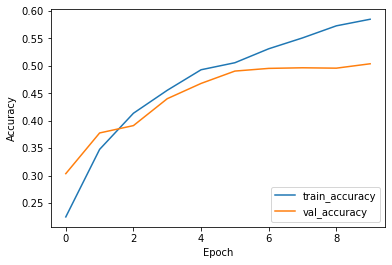
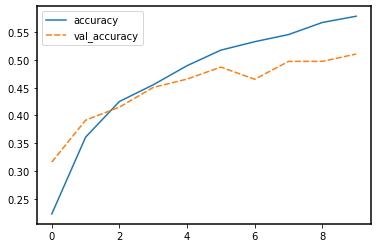
Use seaborn, and also plot loss

Changed region(s): [[0.0, 0.0, 0.9894, 0.9879]]

diff --git a/_episodes/04-networks-are-like-onions.md b/_episodes/04-networks-are-like-onions.md
@@ -292,7 +292,7 @@ We compile the model and train it on our training data for 10 epochs
 
 ~~~
 model.compile(optimizer='adam',
-              loss=tf.keras.losses.SparseCategoricalCrossentropy(from_logits=True),
+              loss=keras.losses.SparseCategoricalCrossentropy(from_logits=True),
               metrics=['accuracy'])
 
 history = model.fit(train_images, train_labels, epochs=10,
@@ -304,16 +304,18 @@ history = model.fit(train_images, train_labels, epochs=10,
 We can plot the training process using the history:
 
 ~~~
-plt.plot(history.history['accuracy'], label='train_accuracy')
-plt.plot(history.history['val_accuracy'], label = 'val_accuracy')
-plt.xlabel('Epoch')
-plt.ylabel('Accuracy')
-plt.legend(loc='lower right')
+history_df = pd.DataFrame.from_dict(history.history)
+sns.lineplot(data=history_df[['accuracy', 'val_accuracy']])
 ~~~
 {: .language-python}
 ![Output of plotting sample](../fig/04_training_history_1.png)
+~~~
+sns.lineplot(data=history_df[['loss', 'val_loss']])
+~~~
+{: .language-python}
+![Output of plotting sample](../fig/04_training_history_loss_1.png)
 
-It seems that the model is overfitting somewhat, because the validation accuracy stagnates.
+It seems that the model is overfitting somewhat, because the validation accuracy and loss stagnates.
 
 > ## Network depth
 >
@@ -392,20 +394,23 @@ It seems that the model is overfitting somewhat, because the validation accuracy
 > > To train the network and plot the results:
 > > ~~~
 > > model.compile(optimizer='adam',
-> >               loss=tf.keras.losses.SparseCategoricalCrossentropy(from_logits=True),
+> >               loss=keras.losses.SparseCategoricalCrossentropy(from_logits=True),
 > >               metrics=['accuracy'])
 > >
 > > history = model.fit(train_images, train_labels, epochs=20,
 > >                     validation_data=(test_images, test_labels))
 > >
-> > plt.plot(history.history['accuracy'], label='train_accuracy')
-> > plt.xlabel('Epoch')
-> > plt.ylabel('Accuracy')
-> > plt.legend(loc='lower right')
+> > history_df = pd.DataFrame.from_dict(history.history)
+> > sns.lineplot(data=history_df[['accuracy', 'val_accuracy']])
 > >
 > > ~~~
 > > {: .language-python}
 > > ![Output of training](../fig/04_training_history_2.png)
+> > ~~~
+> > sns.lineplot(data=history_df[['loss', 'val_loss']])
+> > ~~~
+> > {: .language-python}
+> > ![Output of plotting sample](../fig/04_training_history_loss_2.png)
 > {: .solution}
 {: .challenge}
 
@@ -421,9 +426,9 @@ It seems that the model is overfitting somewhat, because the validation accuracy
 
 ## Dropout
 
-Note that the training accuracy continues to increase, while the validation accuracy stagnates over the course of the epochs. This means we are overfitting on our training data set.
+Note that the training loss continues to decrease, while the validation loss stagnates, and even starts to increase over the course of the epochs. Similarily, the accuracy for the validation set does not improve anymore after some epochs. This means we are overfitting on our training data set.
 
-There are several ways of preventing overfitting, called regularization methods.
+There are several ways of preventing overfitting, called *regularization methods*.
 One common and simple but remarkebly effective method is Dropout ([Srivastava et al., 2014](https://jmlr.org/papers/v15/srivastava14a.html)).
 
 In the Dropout layer, a random portion of the nodes in the previous layer is ignored during training time.
@@ -485,7 +490,7 @@ We can see that the dropout does note alter the dimensions of the image, and has
 We again compile and train the model.
 ~~~
 model_dropout.compile(optimizer='adam',
-              loss=tf.keras.losses.SparseCategoricalCrossentropy(from_logits=True),
+              loss=keras.losses.SparseCategoricalCrossentropy(from_logits=True),
               metrics=['accuracy'])
 
 history_dropout = model_dropout.fit(train_images, train_labels, epochs=20,
@@ -495,12 +500,10 @@ history_dropout = model_dropout.fit(train_images, train_labels, epochs=20,
 
 And inspect the training results:
 ~~~
-plt.plot(history_dropout.history['accuracy'], label='train_accuracy')
-plt.plot(history_dropout.history['val_accuracy'], label = 'val_accuracy')
-plt.xlabel('Epoch')
-plt.ylabel('Accuracy')
-plt.ylim([0, 1])
-plt.legend(loc='lower right')
+history_df = pd.DataFrame.from_dict(history_dropout.history)
+history_df['epoch'] = range(1,len(history_df)+1)
+history_df = history_df.set_index('epoch')
+sns.lineplot(data=history_df[['accuracy', 'val_accuracy']])
 
 test_loss, test_acc = model_dropout.evaluate(test_images,  test_labels, verbose=2)
 ~~~
@@ -510,8 +513,14 @@ test_loss, test_acc = model_dropout.evaluate(test_images,  test_labels, verbose=
 ~~~
 {: .output}
 ![Output of training](../fig/04_training_history_3.png)
+~~~
+sns.lineplot(data=history_df[['loss', 'val_loss']])
+~~~
+{: .language-python}
+![Output of plotting sample](../fig/04_training_history_loss_3.png)
 
 Now we see that the gap between the training accuracy and validation accuracy is much smaller, and that the final accuracy on the validation set is higher than without dropout.
+Nevertheless, there is still some difference between the training loss and validation loss, so we could experiment with regularization even more.
 
 
 {% include links.md %}
